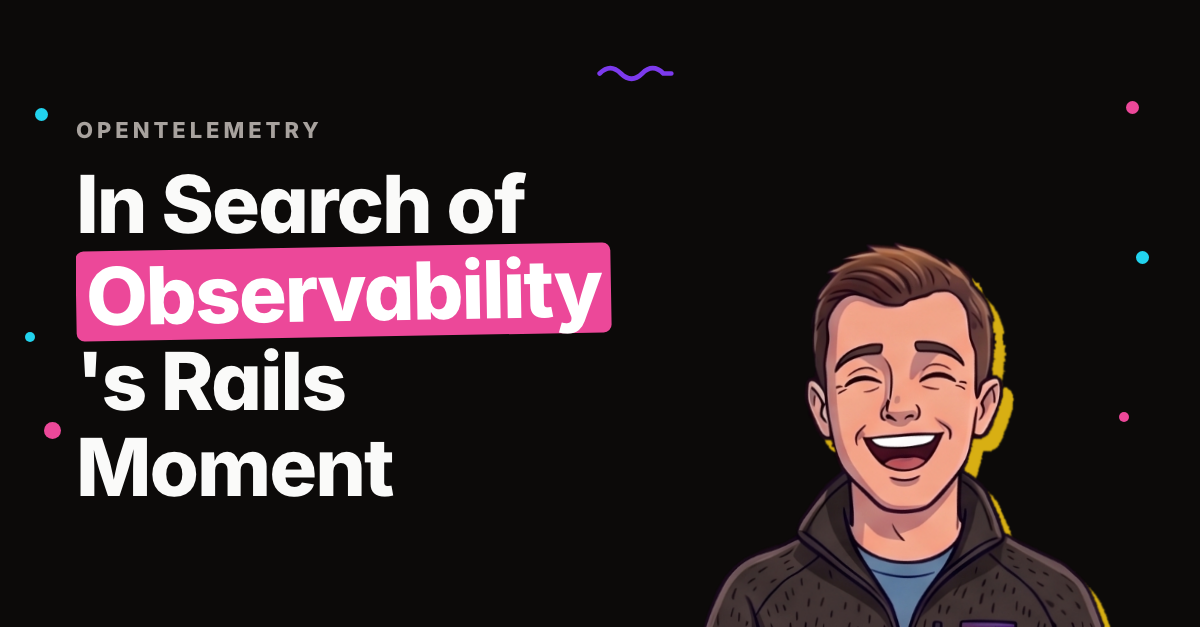
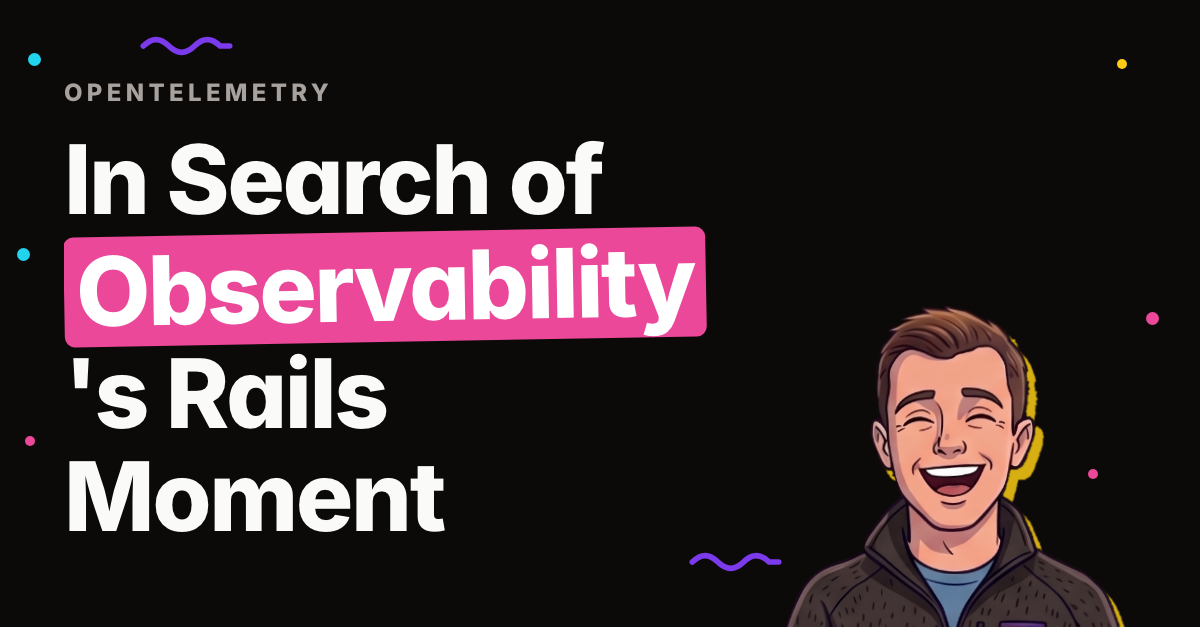
Make the share cards readable at thumbnail size
A share card is met small — in a chat preview or a feed — and the default one
was failing that test. The headline now starts at 96px against a narrower
mascot column, so it survives the shrink-to-fit with a much larger face.

The confetti was dealt by a coin flip per dot over only five or six of them,
which regularly put nearly all of them down one side; the default card had
them bunched in the right margin. Sides alternate now and each side's dots are
spread down their own height bands, so the frame is decorated evenly however
the seed falls. The left band stops short of where the copy starts, since a
dot resting on the kicker's first letter reads as a fault rather than as
decoration. A second squiggle sits low on the opposite side so the pair frames
the type instead of crowding one corner.

The kicker is shrunk to fit one line. At 0.18em tracking even a short credit
wrapped on a card, and a wrapped kicker reads as a typo.

The default card's kicker was the bare domain, which the card says already by
being on the site. It carries the hero's own credit line instead.

Also moves the generator into the repo. It renders committed assets, so
leaving it in a scratch directory meant the cards could not be rebuilt.

diff --git a/.claude/skills/social-cover/render.py b/.claude/skills/social-cover/render.py
@@ -34,7 +34,10 @@ PRESETS = {
     "wide":   dict(w=1920, h=1080, pad=120, font=124, kicker=30, mascot=0.40, gap=56, stack=False),
     # padl: LinkedIn overlays the profile photo on a cover's lower-left.
     "banner": dict(w=1584, h=396, pad=64, padl=380, font=62, kicker=18, mascot=0.24, gap=48, stack=False),
-    "card":   dict(w=1200, h=627, pad=76, font=80, kicker=22, mascot=0.36, gap=40, stack=False),
+    # A share card is read at thumbnail size in a feed or a chat, so the
+    # headline is sized to survive that: a narrower mascot and a tighter pad
+    # buy the copy the width it needs to hold a larger face.
+    "card":   dict(w=1200, h=627, pad=64, font=96, kicker=24, mascot=0.30, gap=36, stack=False),
 }
 
 
@@ -51,6 +54,21 @@ FIT_JS = """(start) => {
   while (size > 14 && !fits()) {
     size -= 2;
     h1.style.fontSize = size + 'px';
+  }
+  return size;
+}"""
+
+# The kicker is one line by definition — it is a label, not a sentence. Let it
+# wrap and it reads as a typo, and at 0.18em tracking even a short credit line
+# wraps on a card. Shrink it to fit instead of trimming the words.
+KICKER_JS = """(start) => {
+  const el = document.getElementById('kicker');
+  if (!el) return start;
+  el.style.whiteSpace = 'nowrap';
+  let size = start;
+  while (size > 9 && el.scrollWidth > el.parentElement.clientWidth) {
+    size -= 1;
+    el.style.fontSize = size + 'px';
   }
   return size;
 }"""
@@ -76,32 +94,54 @@ def parse_headline(text):
 
 def decor(rng, w, h, pad):
     """Confetti and the hero's squiggle, kept in the margins so they do not
-    land on the headline."""
+    land on the headline.
+
+    Placement is stratified rather than random: a coin-flip per dot, over only
+    five or six of them, regularly dealt nearly all of them to one side, and a
+    card with every dot bunched in the right margin looks like a mistake. Sides
+    alternate, and each side's dots are spread down its own height bands, so
+    the frame is decorated evenly however the seed falls.
+    """
     bits = []
     unit = max(10, round(w / 150))
-    for _ in range(rng.randint(5, 8)):
+    m = unit * 1.5
+    n = rng.randint(6, 8)
+    # Wide enough to read as a scatter. The headline and the mascot own the
+    # middle; these bands are the margins either side of them.
+    # The left band stops short of `pad`, where the copy starts — a dot resting
+    # on the kicker's first letter reads as a rendering fault, not decoration.
+    # The right band can run wider: the mascot is cut narrower than its column.
+    bands = {
+        0: (unit * 0.5, max(unit, pad * 0.7 - unit * 1.7)),
+        1: (w - pad * 1.9, w - m - unit * 1.7),
+    }
+    for i in range(n):
         size = rng.choice([unit, round(unit * 1.3), round(unit * 1.7)])
-        # Bias towards the edges: the middle belongs to the type and the mascot.
-        # Kept a clear margin in from the frame so none is sliced in half.
-        m = unit * 1.5
-        if rng.random() < 0.5:
-            x = rng.uniform(m, max(m, pad * 0.75))
-        else:
-            x = rng.uniform(w - pad * 1.2, w - m - size)
-        y = rng.uniform(m, h - m - size)
+        lo, hi = bands[i % 2]
+        x = rng.uniform(lo, max(lo, hi))
+        # One dot per horizontal band, jittered inside it, so they never stack.
+        slot = i // 2
+        slots = (n + 1) // 2
+        span = (h - 2 * m - size) / slots
+        y = m + slot * span + rng.uniform(0, span * 0.7)
         bits.append(
             f'<span class="dot" style="left:{x:.0f}px;top:{y:.0f}px;'
             f'width:{size}px;height:{size}px;background:{rng.choice(DOT_COLOURS)}"></span>'
         )
-    # The exact path from Hero.astro, scaled to the canvas.
-    s = max(1.0, w / 900)
-    sx, sy = rng.uniform(pad * 0.4, w * 0.5), rng.uniform(pad * 0.25, pad * 0.9)
-    bits.append(
-        f'<svg style="position:absolute;left:{sx:.0f}px;top:{sy:.0f}px" '
-        f'width="{58*s:.0f}" height="{20*s:.0f}" viewBox="0 0 58 20">'
-        '<path d="M2 10 Q10 2 18 10 T34 10 T50 10 L56 10" stroke="#7c3aed" '
-        'stroke-width="3.5" fill="none" stroke-linecap="round" /></svg>'
-    )
+    # The exact path from Hero.astro, scaled to the canvas. One near the top
+    # left, one low on the opposite side, so the pair frames the type instead
+    # of crowding one corner of it.
+    s = max(1.0, w / 750)
+    for sx, sy in (
+        (rng.uniform(pad * 0.5, w * 0.34), rng.uniform(pad * 0.2, pad * 0.8)),
+        (rng.uniform(w * 0.55, w - pad * 1.4), rng.uniform(h - pad * 1.5, h - pad * 0.6)),
+    ):
+        bits.append(
+            f'<svg style="position:absolute;left:{sx:.0f}px;top:{sy:.0f}px" '
+            f'width="{58*s:.0f}" height="{20*s:.0f}" viewBox="0 0 58 20">'
+            '<path d="M2 10 Q10 2 18 10 T34 10 T50 10 L56 10" stroke="#7c3aed" '
+            'stroke-width="3.5" fill="none" stroke-linecap="round" /></svg>'
+        )
     return "".join(bits)
 
 
@@ -188,6 +228,11 @@ def main():
         # a size that is wrong once Inter arrives and every line rebreaks.
         page.evaluate("document.fonts.ready")
         page.wait_for_timeout(250)
+        # Kicker first: it sits above the headline, so shrinking it frees
+        # height the headline may then be able to use.
+        kick = page.evaluate(KICKER_JS, p["kicker"])
+        if kick < p["kicker"]:
+            print(f"kicker shrunk {p['kicker']} -> {kick}px to fit one line", file=sys.stderr)
         final = page.evaluate(FIT_JS, p["font"])
         if final < p["font"]:
             print(f"headline shrunk {p['font']} -> {final}px to fit", file=sys.stderr)

diff --git a/scripts/make-og-cards.py b/scripts/make-og-cards.py
@@ -1,0 +1,78 @@
+#!/usr/bin/env python3
+"""Render one share card per blog post, plus the site-wide default.
+
+Every card is 1200x627 so it is never re-cropped by the platform. The imported
+heroes could not do that job: they are whatever aspect ratio Medium happened to
+store, so a share card built from one is cropped somewhere unhelpful.
+
+Run after adding a post:  python3 scripts/make-og-cards.py
+Cards are committed, so this only needs running when a post is added or the
+social-cover skill's look changes.
+"""
+import hashlib
+import re
+import subprocess
+import sys
+from pathlib import Path
+
+REPO = Path(__file__).resolve().parent.parent
+RENDER = REPO / ".claude/skills/social-cover/render.py"
+OUT = REPO / "public/og"
+POSTS = REPO / "src/content/blog"
+MASCOTS = sorted(p.stem for p in (REPO / "assets/mascots").glob("*.png"))
+
+# Faces that read as "here is a guide", not "something went wrong".
+NEUTRAL = ["thinking", "smirk", "smile", "deadpan", "arms-crossed", "hopeful", "excited", "laughing"]
+
+
+def frontmatter(path):
+    text = path.read_text()
+    fm = text.split("---", 2)[1]
+    get = lambda k: (re.search(rf'^{k}:\s*(.*)$', fm, re.M) or [None, ""])[1].strip()
+    title = get("title").strip('"')
+    tags = [t.strip().strip('"') for t in get("tags").strip("[]").split(",") if t.strip()]
+    return title, tags
+
+
+def headline(title, tags):
+    """Chip the first tag that actually appears in the title.
+
+    Chipping a phrase that is not in the title would mean rewriting it, and a
+    share card that does not match its own headline is worse than a plain one.
+    """
+    for tag in tags:
+        words = tag.replace("-", " ")
+        m = re.search(rf"\b{re.escape(words)}\b", title, re.I)
+        if m:
+            return f"{title[:m.start()]}{{{title[m.start():m.end()]}}}{title[m.end():]}"
+    return title
+
+
+def main():
+    OUT.mkdir(parents=True, exist_ok=True)
+    jobs = []
+    for path in sorted(POSTS.glob("*.md")):
+        slug = re.sub(r"^\d{4}-\d{2}-\d{2}-", "", path.stem)
+        title, tags = frontmatter(path)
+        # Stable per slug, so re-running does not reshuffle every card.
+        pick = NEUTRAL[int(hashlib.sha1(slug.encode()).hexdigest(), 16) % len(NEUTRAL)]
+        jobs.append((slug, headline(title, tags), tags[0].replace("-", " ") if tags else "Blog", pick))
+
+    for slug, head, kicker, mascot in jobs:
+        cmd = [sys.executable, str(RENDER), "--size", "card", "--mascot", mascot,
+               "--kicker", kicker, "--headline", head, "--seed", slug,
+               "--out", str(OUT / f"{slug}.png")]
+        r = subprocess.run(cmd, capture_output=True, text=True)
+        status = "ok" if r.returncode == 0 else f"FAILED: {r.stderr.strip()[:120]}"
+        print(f"  {slug[:52]:<52} {mascot:<12} {status}")
+
+    # The default card, used by every page that has no image of its own.
+    subprocess.run([sys.executable, str(RENDER), "--size", "card", "--mascot", "smile",
+                    "--kicker", "Dash0 \u00b7 CNCF Ambassador \u00b7 Golden Kubestronaut",
+                    "--headline", "I talk {Observability}, {Platform Engineering} & {AI}",
+                    "--seed", "default", "--out", str(REPO / "public/og-default.png")], check=True)
+    print("  og-default.png")
+
+
+if __name__ == "__main__":
+    main()

diff --git a/.claude/skills/social-cover/SKILL.md b/.claude/skills/social-cover/SKILL.md
@@ -31,7 +31,7 @@ compositions, and a headline one word longer can change how it balances.
 | `--size` | `square` 1024×1024 · `wide` 1920×1080 · `banner` 1584×396 (LinkedIn profile) · `card` 1200×627 (link preview / `og:image`) |
 | `--mascot` | Name from `assets/mascots/`, or `--mascot random`. Omit for none. |
 | `--headline` | The line. `{...}` marks a chip. |
-| `--kicker` | Small uppercase line above the headline. Optional. |
+| `--kicker` | Small uppercase line above the headline. Optional. Shrunk to fit one line, so keep it to a short credit — a long one just renders small. |
 | `--flip` | Put the mascot on the left. |
 | `--seed` | Fixes the confetti. Same seed + same text = same image. |
 
